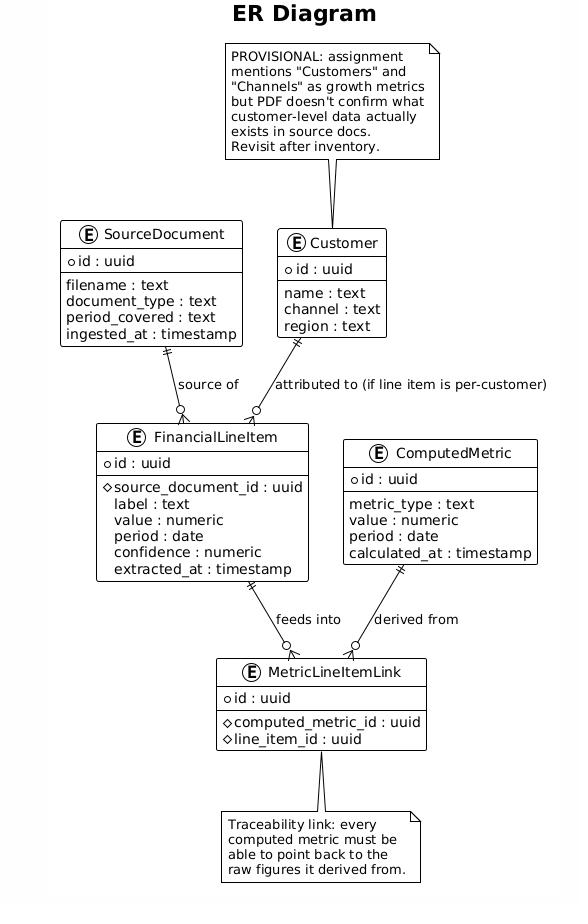
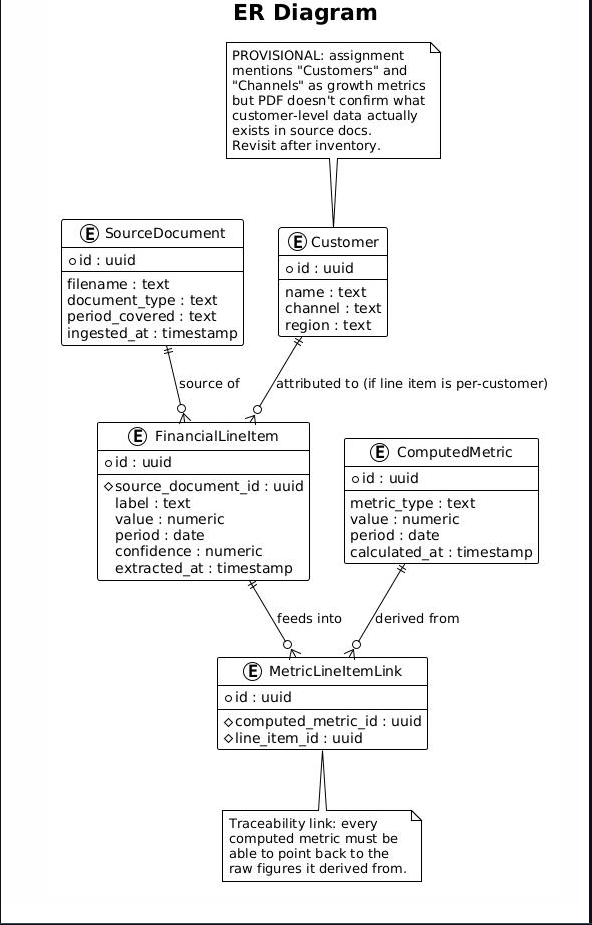
Add VS Code workspace config, realign folders to fixture-based AI workflow
- .vscode/extensions.json and settings.json (ruff on save, Prettier, interpreter path)
- Add root prompts/ and fixtures/{extraction,insight} per project doc section 3.1
- Remove redundant extraction-pipeline/prompts
- README: document fixture-based AI workflow, no live API key, swap point location
- Mark anthropic SDK as swap-point-only dependency

diff --git a/README.md b/README.md
@@ -16,16 +16,23 @@ metric definitions) happens incrementally in follow-up work, tracked against
 
 ```
 [Extraction Pipeline] -> [PostgreSQL] -> [FastAPI Backend] -> [React Frontend]
-                                              ^
-                                     [AI Insight Service]
+^
+[AI Insight Service]
 ```
 
-Extraction and insight generation are two separate Anthropic API touchpoints:
+Extraction and insight generation are two separate AI touchpoints, run
+manually via Claude.ai/ChatGPT rather than a live API key (see
+[AI-assisted development workflow](#ai-assisted-development-workflow) below):
 - **Extraction service** turns source document text into `FinancialLineItem`
   records with a source reference and confidence score.
 - **Insight service** is given only computed metrics (never raw document
   text) and generates board commentary. This keeps commentary grounded in
   verified figures rather than half-parsed source text.
+
+Both services read from versioned fixture files at runtime rather than
+calling a live API. Each service isolates the model call behind a single
+function, so a live key could be substituted later without touching parsing,
+validation, or DB-write logic.
 
 Raw extracted values (`FinancialLineItem`) are never overwritten by derived
 values (`ComputedMetric`); a traceable link is kept between them.
@@ -39,14 +46,18 @@ values (`ComputedMetric`); a traceable link is kept between them.
 | Database | PostgreSQL 16 | Relational integrity between document → line item → metric; window functions for YoY/MoM |
 | ORM / migrations | SQLAlchemy 2.0 + Alembic | Typed models, versioned schema |
 | Frontend | React + TypeScript + Vite | TanStack Query for data fetching, Recharts for charts, Tailwind for styling |
-| AI | Anthropic API | Used separately for extraction and for commentary |
+| AI | Anthropic-style prompting, run manually (no live API key) | Extraction and insight generation done via Claude.ai/ChatGPT, outputs cached as fixtures. See AI-assisted workflow section. |
 
 Full reasoning for each choice is in `docs/PROJECT_INSTRUCTIONS.md`.
 
 ## Repository layout
 
 ```
-extraction-pipeline/   Python: document parsing, cleaning, LLM extraction, prompts (versioned files)
+extraction-pipeline/   Python: document parsing, cleaning, extraction service, prompts (versioned files)
+  prompts/              extraction_v1.md, insight_v1.md
+  fixtures/
+    extraction/          Cached extraction outputs, one file per source document
+    insights/             Cached commentary outputs, one file per reporting period
 backend/                FastAPI app, SQLAlchemy models, Alembic migrations
 frontend/               React + TypeScript + Vite app
 docs/                   Diagrams, validation notes, standing project instructions
@@ -71,7 +82,7 @@ docker compose up -d
 cd backend
 python3 -m venv .venv && source .venv/bin/activate
 pip install -e ".[dev]"
-cp ../.env.example ../.env   # fill in ANTHROPIC_API_KEY
+cp ../.env.example ../.env   # DATABASE_URL only, no API key required
 alembic upgrade head
 uvicorn app.main:app --reload
 ```
@@ -81,6 +92,8 @@ uvicorn app.main:app --reload
 cd extraction-pipeline
 python3 -m venv .venv && source .venv/bin/activate
 pip install -r requirements.txt
+python -m extraction.seed   # loads cached fixtures from fixtures/extraction/
+                             # and fixtures/insights/ into the database
 ```
 
 ### 4. Frontend
@@ -92,11 +105,39 @@ npm run dev
 
 ## AI-assisted development workflow
 
-This project is built with AI assistance (Claude). Every chat that touches
-extraction or insight generation produces, as it goes:
-- Validation notes (sample of extracted figures checked against source, with error rate) in `docs/validation-notes/`
-- Prompts as versioned files in `extraction-pipeline/prompts/`, not inline strings
-- An assumptions log for anything inferred rather than sourced
+**No live Anthropic API key is used in this project.** AI extraction and
+insight generation are performed manually through the Claude.ai chat
+interface, and the outputs are cached as versioned fixture files that the
+pipeline reads and validates exactly as if they had come from a live API
+response.
+
+Rationale: cost control, reproducibility (anyone can re-run the pipeline
+from the committed fixtures without a key), and no runtime dependency on a
+live model call for a CEO-facing report.
+
+### How it works
+
+| Stage | Location |
+|---|---|
+| Prompts (versioned, never inline in code) | `prompts/extraction_v1.md`, `prompts/insight_v1.md` |
+| Extraction outputs | `fixtures/extraction/<document_name>.json` |
+| Insight outputs | `fixtures/insight/<period>.json` |
+| Swap point for a live API key | single model-call function in `extraction_service.py` and `insight_service.py`, clearly commented |
+
+Fixture outputs still pass through the same Pydantic validation, confidence
+scoring, and source-reference attachment that a live API response would.
+This is not a shortcut around the data model, only around where the model
+call happens. Substituting a live API key later means changing one function
+per service, with no change to parsing, validation, or database-write logic.
+
+### Requirements for any work touching extraction or insight generation
+
+- Validation notes recorded when each fixture is created: sample of extracted
+  figures checked against source, with error rate. Stored in `docs/validation-notes/`.
+- Prompts stored as versioned files in `prompts/`, never as inline strings.
+- Assumptions log: anything inferred rather than sourced, stated explicitly.
+- Fixture files committed under `fixtures/`, named by document/period, so the
+  extraction run is reproducible without re-running anything manually.
 
 ## Deliverables (per assignment)
 